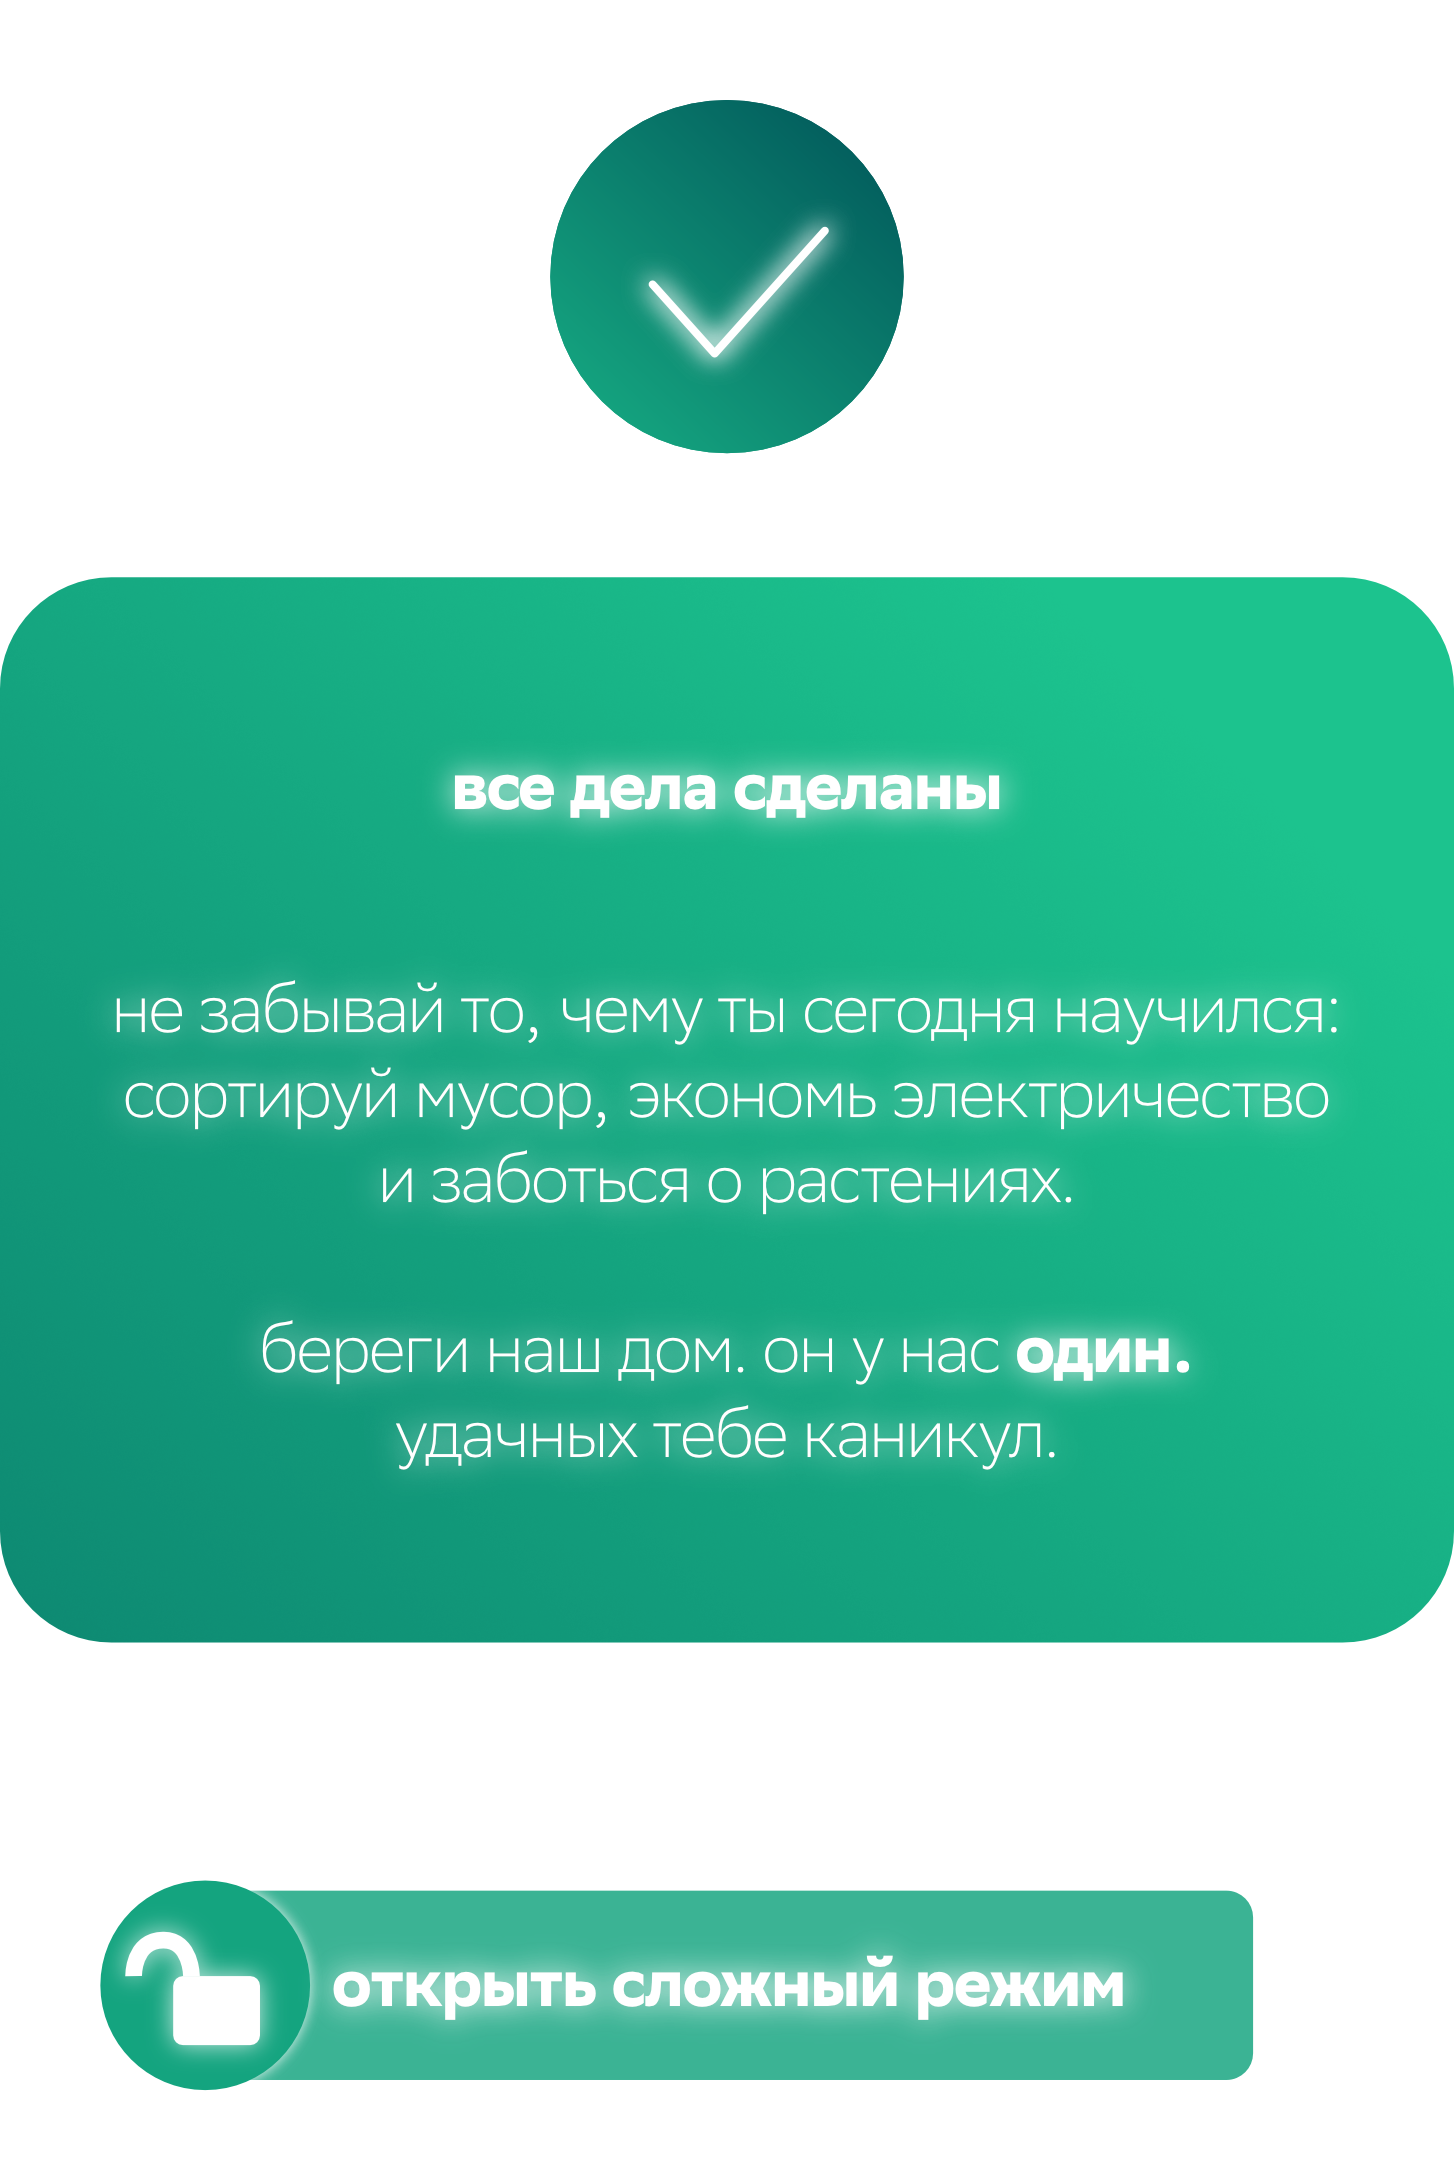
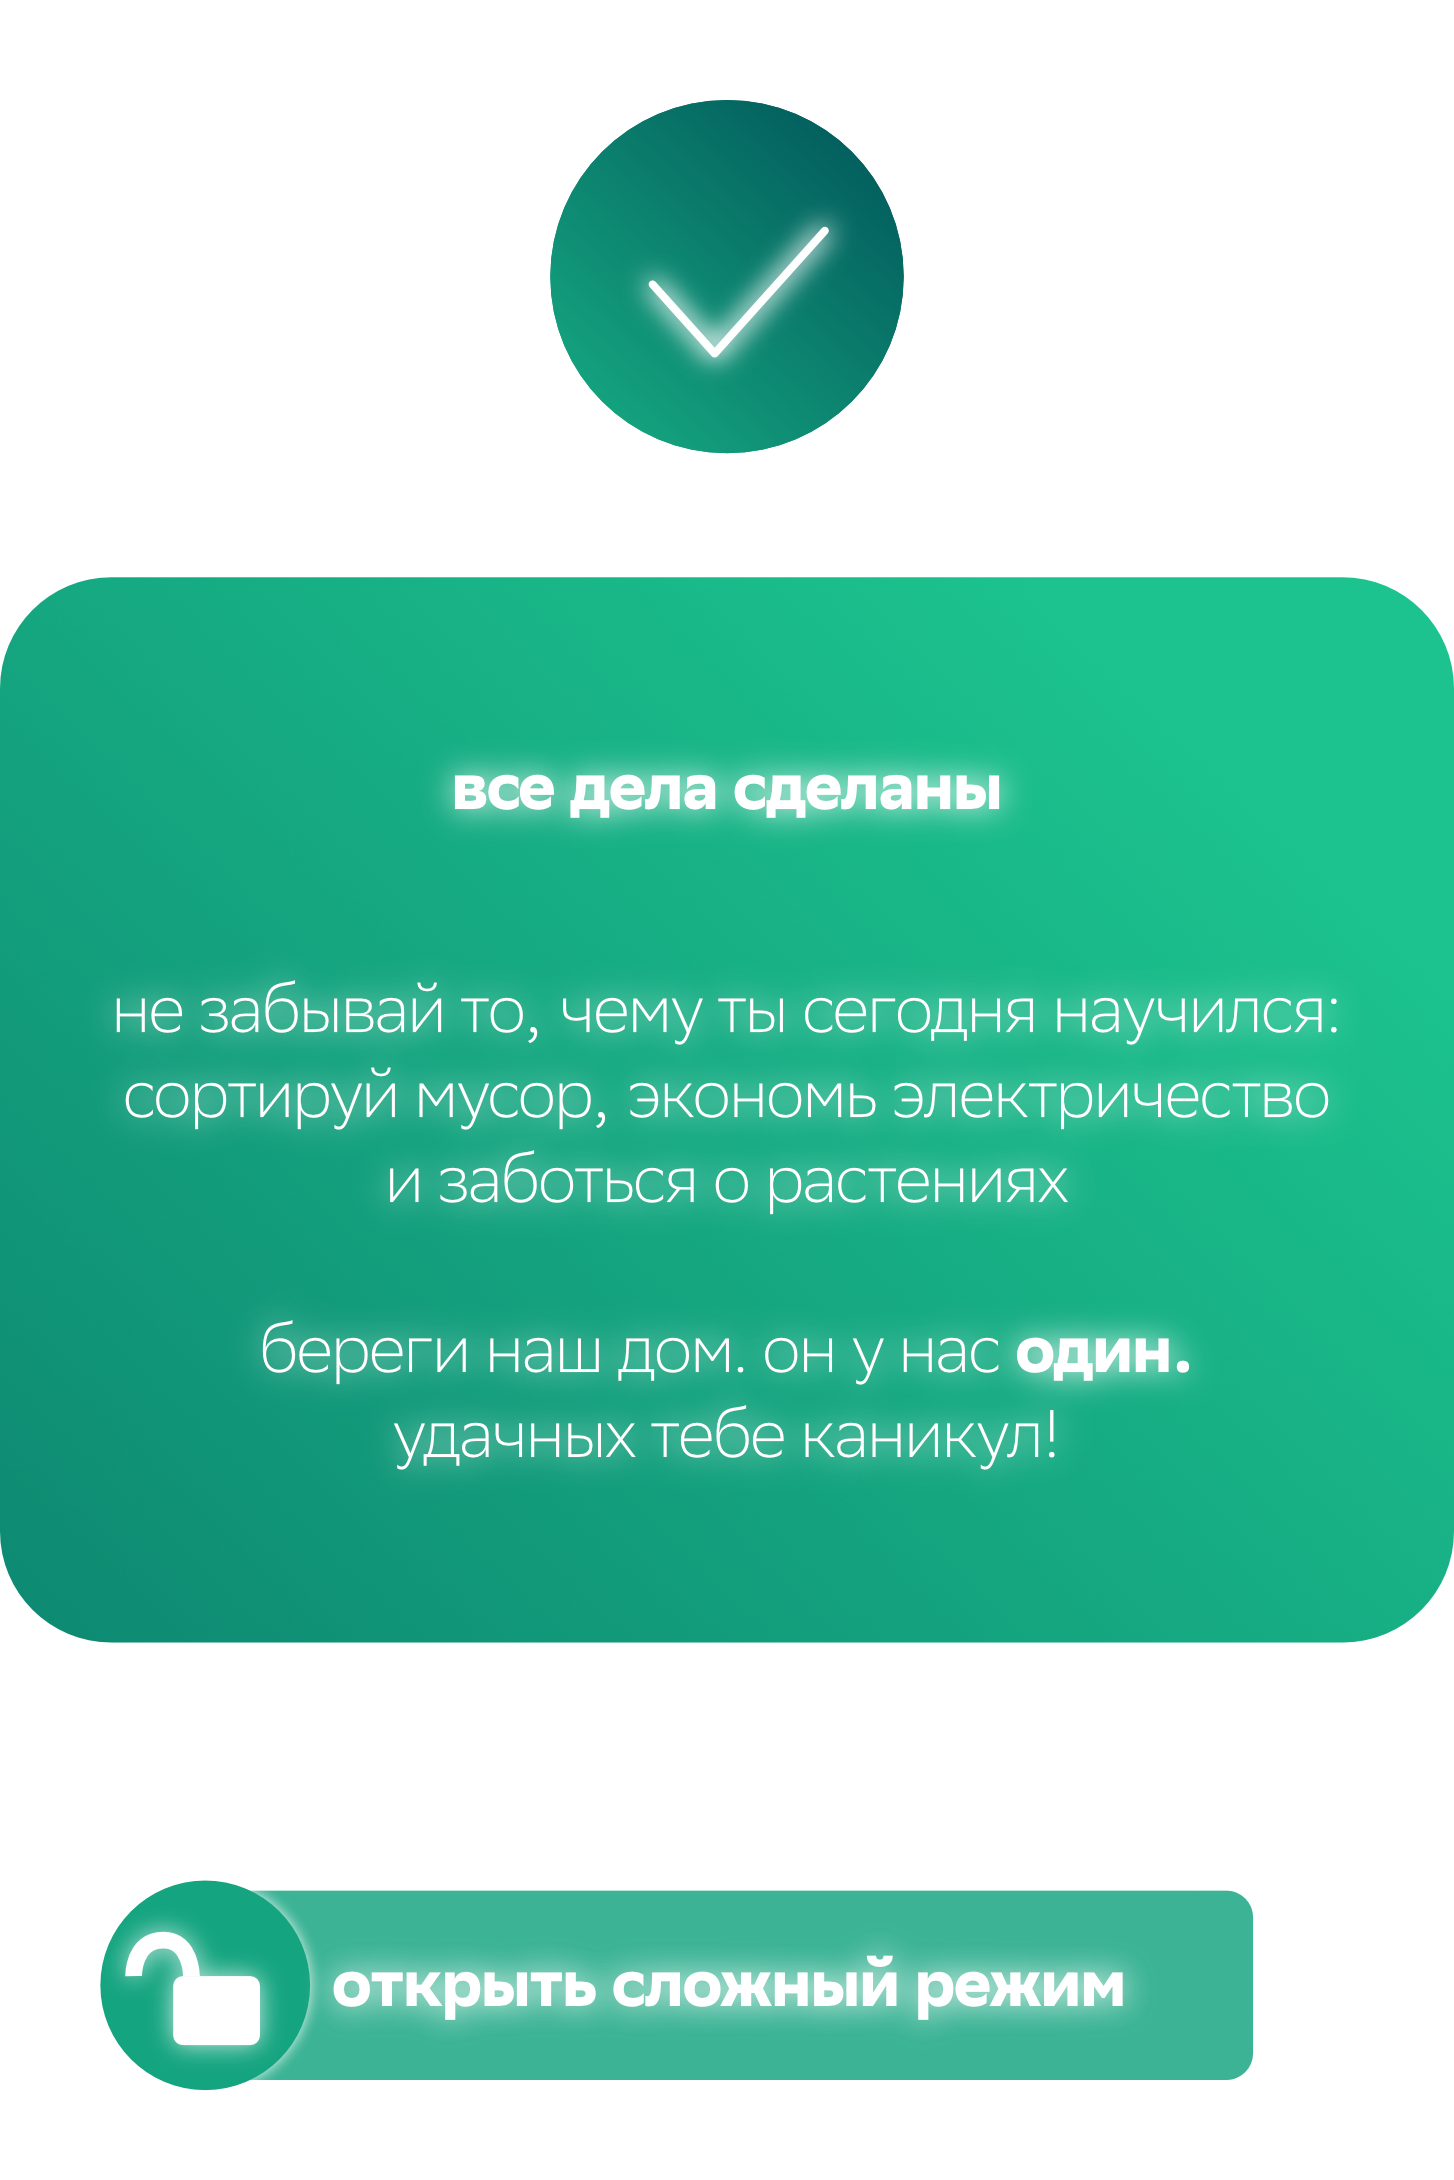
new ending

diff --git a/src/GameState.js b/src/GameState.js
@@ -431,11 +431,22 @@ GameState.prototype = {
             if (this.canClick)
             {
 
-                if (this.levelPass[0]>0 && this.levelPass[1]>0 && this.levelPass[2]>0)
-                {
-                    if (!this.outroDone)
-                        this.showOutro();
-                }
+                if (this.gameMode===0)
+                    if (this.levelPass[0]>0 && this.levelPass[1]>0 && this.levelPass[2]>0)
+                    {
+                        if (!this.outroDone)
+                            this.showOutro();
+                    }
+
+
+                if (this.gameMode===1)
+                    if (this.levelPass[0]>1 && this.levelPass[1]>1 && this.levelPass[2]>1)
+                    {
+                        if (!this.outro2Done)
+                            this.showOutro2();
+                    }
+
+
 
                 this.closeLevel();
             }
@@ -524,30 +535,61 @@ GameState.prototype = {
         this.canClickOutro = false;
         this.outro_box = game.add.button(0,-GAME_HEIGHT/2,'outro_box',function () {
 
-            this.gameMode = 1;
-
-            for (let i=0;i<3;i++)
+            if (this.canClickOutro)
             {
+                this.gameMode = 1;
 
-                this.button_transition[i].setFrames(6+3+i,6+i,6+3+i,6+i)
+                for (let i=0;i<3;i++)
+                {
+
+                    this.button_transition[i].setFrames(6+3+i,6+i,6+3+i,6+i)
+                }
+
+                let tween2 = this.game.add.tween(this.outro_box);
+                tween2.to({y:-GAME_HEIGHT/2},
+                    Phaser.Timer.SECOND*0.75,
+                    Phaser.Easing.Cubic.InOut
+                );
+
+                tween2.onComplete.add(function () {
+
+
+                }.bind(this));
+                tween2.start();
             }
 
-            let tween2 = this.game.add.tween(this.outro_box);
-            tween2.to({y:-GAME_HEIGHT/2},
-                Phaser.Timer.SECOND*0.75,
-                Phaser.Easing.Cubic.InOut
-            );
-
-            tween2.onComplete.add(function () {
-
-
-            }.bind(this));
-            tween2.start();
 
         },this);
 
         this.outro_box.anchor.set(0.5,0.5);
         this.overlay.add(this.outro_box)
+
+
+
+        this.canClickOutro2 = false;
+        this.outro2_box = game.add.button(0,-GAME_HEIGHT/2,'outro2_box',function () {
+
+            if (this.canClickOutro2)
+            {
+
+                let tween2 = this.game.add.tween(this.outro2_box);
+                tween2.to({y:-GAME_HEIGHT/2},
+                    Phaser.Timer.SECOND*0.75,
+                    Phaser.Easing.Cubic.InOut
+                );
+
+                tween2.onComplete.add(function () {
+
+
+                }.bind(this));
+                tween2.start();
+            }
+
+
+        },this);
+
+        this.outro2_box.anchor.set(0.5,0.5);
+        this.overlay.add(this.outro2_box)
 
 
 
@@ -573,20 +615,23 @@ GameState.prototype = {
         this.levelPass = [0,0,0];
 
         this.outroDone = false;
+        this.outro2Done = false;
 
 
-        this.sndAntiBugs = this.game.add.audio("antibugs",0.3,false);
-        this.sndBugs = this.game.add.audio("bugs",0.3,false);
-        this.sndDry = this.game.add.audio("dry",0.3,false);
-        this.sndEl = this.game.add.audio("el",0.3,false);
-        this.sndMusic = this.game.add.audio("music",0.4,true);
-        this.sndNight = this.game.add.audio("night",0.25,false);
-        this.sndSwitch = this.game.add.audio("switch",0.2,false);
-        this.sndTap = this.game.add.audio("tap",0.3,false);
-        this.sndTrash = this.game.add.audio("trash",0.3,false);
-        this.sndWater = this.game.add.audio("water",0.3,false);
-        this.sndWin = this.game.add.audio("win",0.3,false);
+        this.sndAntiBugs =  this.game.add.audio("antibugs",0.3,false);
+        this.sndBugs =      this.game.add.audio("bugs",0.3,false);
+        this.sndDry =       this.game.add.audio("dry",0.3,false);
 
+        this.sndEl =        this.game.add.audio("el",0.3,false);
+        this.sndMusic =     this.game.add.audio("music",0.4,true);
+        this.sndNight =     this.game.add.audio("night",0.25,false);
+
+        this.sndSwitch =    this.game.add.audio("switch",0.2,false);
+        this.sndTap =       this.game.add.audio("tap",0.3,false);
+        this.sndTrash =     this.game.add.audio("trash",0.3,false);
+
+        this.sndWater =     this.game.add.audio("water",0.3,false);
+        this.sndWin =       this.game.add.audio("win",0.3,false);
         this.sndNote = [];
 
         for (let i=1;i<=21;i++)
@@ -732,22 +777,32 @@ GameState.prototype = {
 
             this.canClickOutro = true;
 
-            /*
-            let tween2 = this.game.add.tween(this.outro_box);
-            tween2.to({y:-GAME_HEIGHT/2},
-                Phaser.Timer.SECOND*0.75,
-                Phaser.Easing.Cubic.InOut,
-                false,
-                Phaser.Timer.SECOND*6.5
-            );
 
-            tween2.onComplete.add(function () {
+        }.bind(this));
+        tween.start();
 
 
+    },
 
-            }.bind(this));
-            tween2.start();
-            */
+
+    showOutro2 : function() {
+
+
+        this.outro2Done = true;
+
+
+        let tween = this.game.add.tween(this.outro2_box);
+        tween.to({y:GAME_HEIGHT/2},
+            Phaser.Timer.SECOND*0.75,
+            Phaser.Easing.Cubic.InOut,
+            false,
+            Phaser.Timer.SECOND*1
+        );
+
+        tween.onComplete.add(function () {
+
+
+            this.canClickOutro2 = true;
 
 
         }.bind(this));
@@ -755,6 +810,8 @@ GameState.prototype = {
 
 
     },
+
+
 
     showButtons : function() {
         for (let i=0;i<3;i++)
@@ -894,7 +951,7 @@ GameState.prototype = {
                 break;
         }
 
-
+        this.tutorialVisible = false;
         if (firstStart)
         {
 
@@ -1247,6 +1304,7 @@ GameState.prototype = {
 
         this.intro_box.scale.set(0.7+scaleP*0.3,0.7+scaleP*0.3)
         this.outro_box.scale.set(0.6+scaleP*0.3,0.6+scaleP*0.3)
+        this.outro2_box.scale.set(0.6+scaleP*0.3,0.6+scaleP*0.3)
 
         //this.back.x = -(1280-GAME_WIDTH)/2;
 
@@ -1529,7 +1587,7 @@ GameState.prototype = {
                             let changeWas = false;
                             for (let i = 0; i < 8; i++)
                             {
-                                if (Math.random() < (this.gameMode === 0 ? 0.3 : 0.525))
+                                if (Math.random() < (this.gameMode === 0 ? 0.3 : 0.45))
                                 {
 
                                     this.lightOn[i] = true;
@@ -1548,12 +1606,12 @@ GameState.prototype = {
                             }
 
 
-                            this.nextTime = 2;
+                            this.nextTime = (this.gameMode === 0 ? 2 : 1.5);
                         }
                     }
                     for (let i = 0; i < 8; i++)
                         if (this.lightOn[i])
-                            this.energy -= 0.0003 * TIME_SCALE * 0.5
+                            this.energy -= 0.0003 * TIME_SCALE * (this.gameMode === 0 ? 0.5 : 0.4)
 
 
                     if (this.energy < 0) {

diff --git a/src/PreloadState.js b/src/PreloadState.js
@@ -109,6 +109,7 @@ PreloadState.prototype = {
 
         game.load.image('intro_box', 'assets/intro_box.png');
         game.load.image('outro_box', 'assets/outro_box.png');
+        game.load.image('outro2_box', 'assets/outro2_box.png');
 
 
         game.load.spritesheet('window_win', 'assets/window_win.png',3364/3,1312);
